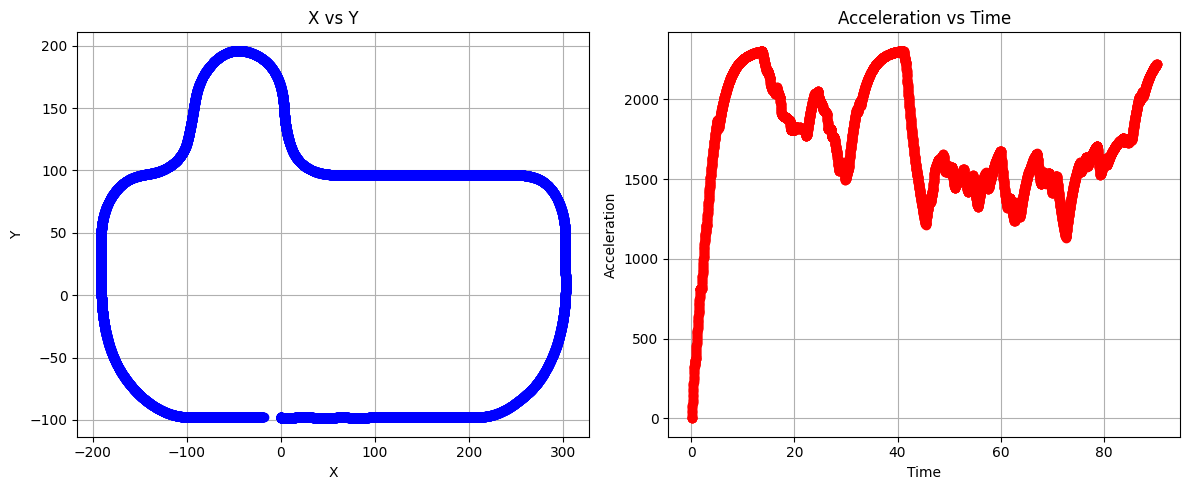
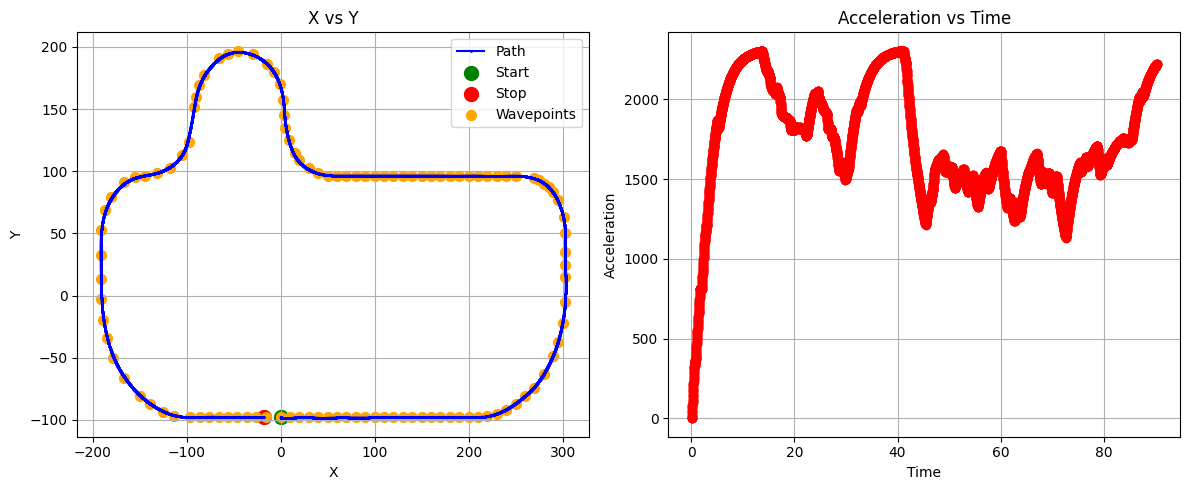
plots added

Changed region(s): [[0.0311, 0.0612, 0.4979, 0.398], [0.0311, 0.398, 0.4979, 0.8265], [0.1245, 0.8265, 0.4357, 0.8878]]

diff --git a/src/mp2/src/plots.py b/src/mp2/src/plots.py
@@ -5,19 +5,147 @@ import matplotlib.pyplot as plt
 csv_file = 'vehicle_data.csv'
 data = pd.read_csv(csv_file)
 
-# Check if the data is loaded
+wavepoints = [[0,-98], 
+                [10,-98],
+                [20,-98],
+                [30,-98],
+                [40,-98],
+                [50,-98],
+                [60,-98],
+                [70,-98],
+                [80,-98],
+                [90,-98],
+                [100,-98],
+                [110,-98],
+                [120,-98],
+                [130,-98],
+                [140,-98],
+                [150,-98],
+                [160,-98],
+                [170,-98],
+                [180,-98],
+                [190,-98],
+                [200,-98],
+                [210,-98],
+                [220,-97],
+                [230,-95],
+                [240,-92],
+                [250,-87],
+                [260,-81],
+                [270,-74],
+                [280,-63],
+                [290,-49],
+                [295,-37],
+                [300,-22],
+                [303,-5],
+                [303,15],
+                [303,25],
+                [303,35],
+                [303,50],
+                [301,63],
+                [295,77],
+                [290,83],
+                [285,87],
+                [280,90],
+                [275,93],
+                [270,94.5],
+                [250,96.5],
+                [240,96.5],
+                [230,96.5],
+                [220,96.5],
+                [210,96.5],
+                [200,96.5],
+                [190,96.5],
+                [180,96.5],
+                [170,96.5],
+                [160,96.5],
+                [150,96.5],
+                [140,96.5],
+                [130,96.5],
+                [120,96.5],
+                [110,96.5],
+                [100,96.5],
+                [90,96.5],
+                [80,96.5],
+                [70,96.5],
+                [60,96.5],
+                [50,96.5],
+                [40,99],
+                [30,103],
+                [20,109],
+                [15,115],
+                [9,125],
+                [5,135],
+                [4,145],
+                [3,157],
+                [-0.5,170],
+                [-7,180],
+                [-14,186.5],
+                [-29,194],
+                [-45,197],
+                [-56.5,194.5],
+                [-65.5,191.5],
+                [-81.5,177.5],
+                [-87,169.5],
+                [-90,160],
+                [-92,152],
+                [-97.5,123.5],
+                [-104.5,113],
+                [-118,103],
+                [-132,98.5],
+                [-144,96.5],
+                [-155,95],
+                [-167,91],
+                [-180.5,79],
+                [-187,68.5], 
+                [-191,53],
+                [-191,33],
+                [-191,13],
+                [-191,-3],
+                [-189,-20],
+                [-184.5,-34.5],
+                [-178.5,-50.5],
+                [-166.5,-66],
+                [-150,-80.5],
+                [-138.5,-87.5], 
+                [-125,-93.5],
+                [-113.5,-96.5],
+                [-96,-98],
+                [-86,-98],
+                [-76,-98],
+                [-66,-98],
+                [-56,-98],
+                [-46,-98],
+                [-36,-98],
+                [-26,-98],
+                [-16,-98], 
+    ]
+
 if data.empty:
     print("No data found in the CSV file.")
 else:
+    # Convert wavepoints to a DataFrame for easier plotting
+    wavepoints_df = pd.DataFrame(wavepoints, columns=['x', 'y'])
+
     # Plot x vs y
     plt.figure(figsize=(12, 5))
 
     plt.subplot(1, 2, 1)  # 1 row, 2 columns, 1st subplot
-    plt.plot(data['x'], data['y'], marker='o', linestyle='-', color='b')
+    plt.plot(data['x'], data['y'], marker='o', linestyle='-', color='b', label='Path', markersize=1)
+
+    
+    # Mark the start and stop points
+    plt.scatter(data['x'].iloc[0], data['y'].iloc[0], color='green', s=100, label='Start')  # Start point
+    plt.scatter(data['x'].iloc[-1], data['y'].iloc[-1], color='red', s=100, label='Stop')   # Stop point
+    
+    # Plot wavepoints without joining them
+    plt.scatter(wavepoints_df['x'], wavepoints_df['y'], color='orange', s=50, label='Wavepoints')
+    
     plt.title('X vs Y')
     plt.xlabel('X')
     plt.ylabel('Y')
     plt.grid()
+    plt.legend()
 
     # Plot acceleration vs time
     plt.subplot(1, 2, 2)  # 1 row, 2 columns, 2nd subplot
